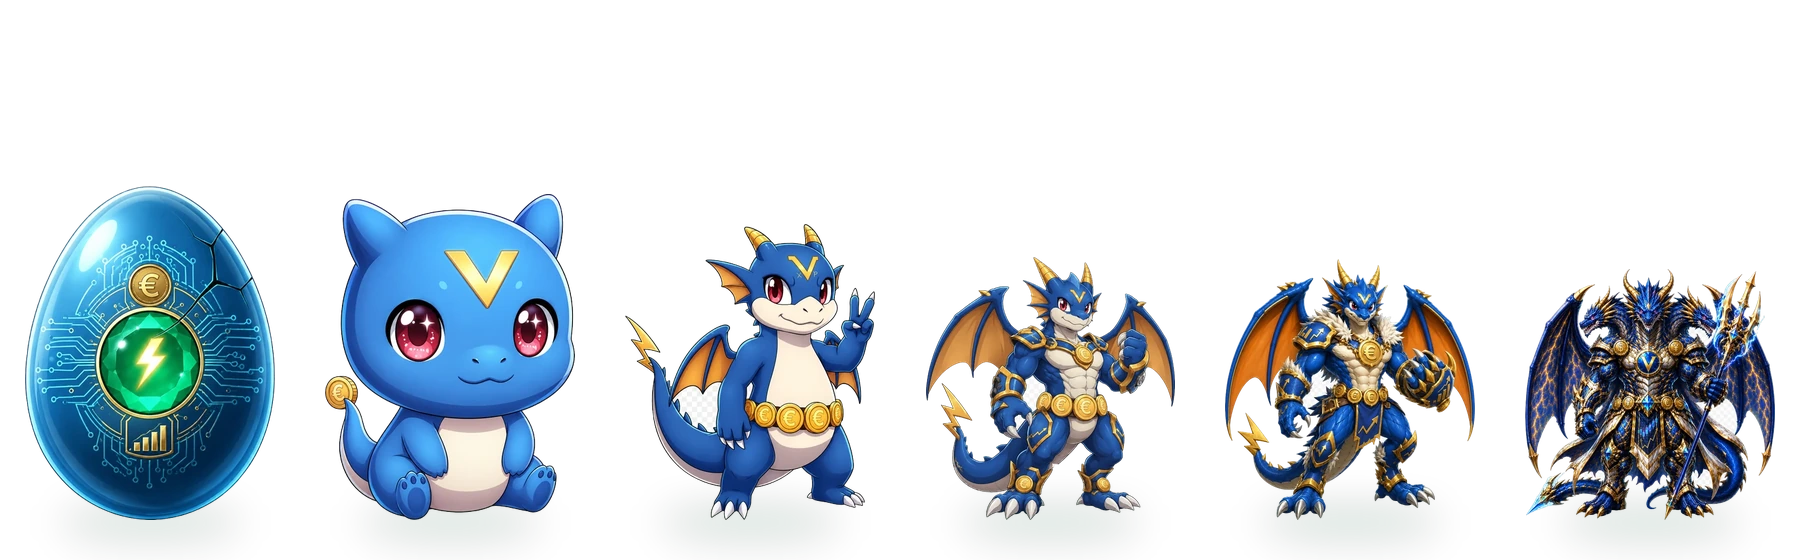
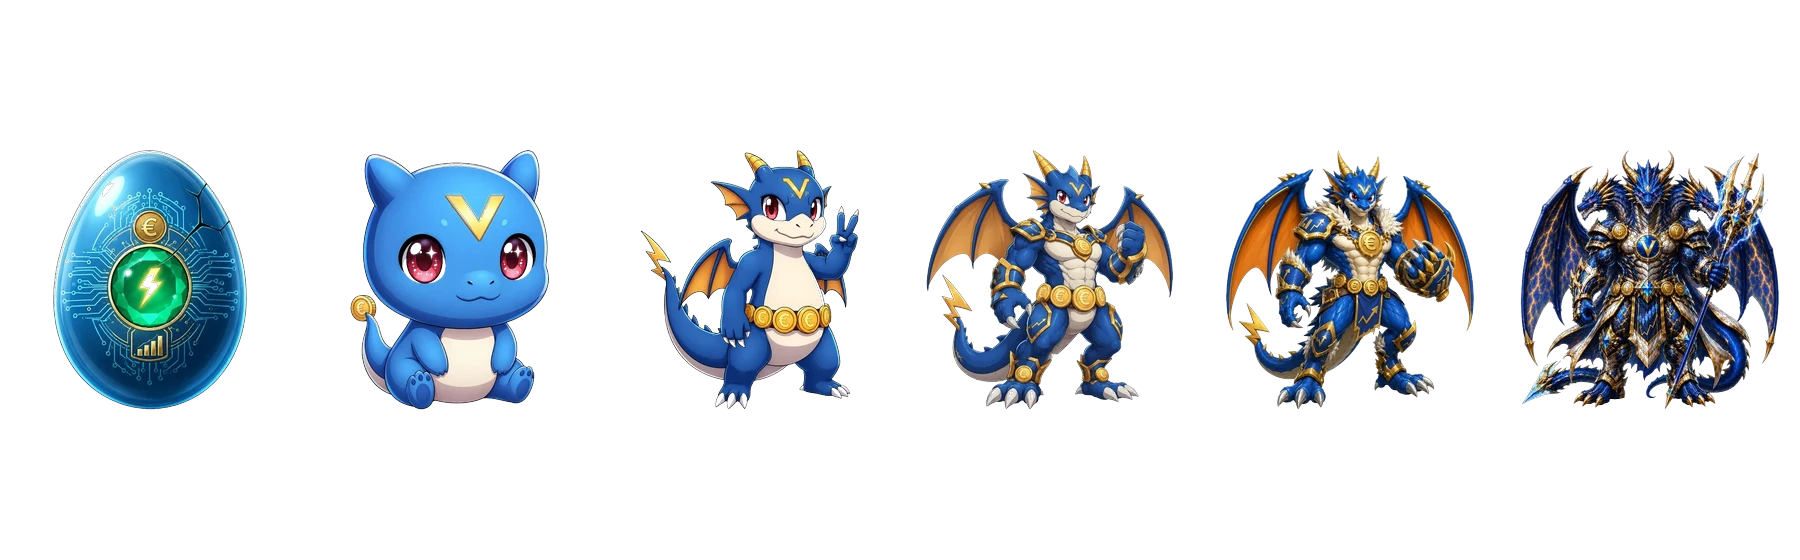
fix(brand): kill baked-checkerboard remnants on mascots (achromatic-key cut)
The source PNGs carry a baked fake-transparency checkerboard (flat RGB, no real
alpha), so prior birefnet cuts left white/grey checker stuck in concave pockets
where it is the same neutral as the cream belly. Colour / hole-fill /
connected-component all failed there (single component, belly-coloured).

Key insight: the checker is ACHROMATIC (R=G=B, two flat greys ~242/254) whereas
the mascots cream belly and Pennys white fur are WARM (R>B). Voltix now keys the
checker by achromatic + locally-periodic texture and removes it, including the
ENCLOSED pockets birefnet keeps, while the smooth warm belly is spared. Fixes
voltix-3 tail, voltix-4 arm/belly, voltix-6 wing/waist with no body damage.

Penny is white-on-white (the whole textured body reads as achromatic), so an
automatic pass nibbles fur tips. Kept the already-clean shipped Penny cuts and
surgically removed only penny-4 hip/ribbon checker pocket via a tight ROI.

Recomposed the (app-unused) evolution sheets from the clean individuals; bumped
MASCOT_ASSET_VER 5->6 and the showcase ?v= so browsers/CDN drop the stale art.

diff --git a/src/components/landing/LandingMascotShowcase.tsx b/src/components/landing/LandingMascotShowcase.tsx
@@ -53,7 +53,7 @@ function EvoRow({
             <div key={evo} className="text-center">
               <div className="relative w-full aspect-square bg-gradient-to-b from-white/5 to-transparent rounded-xl flex items-center justify-center border border-white/5 overflow-hidden mb-1.5">
                 <Image
-                  src={`/mascot/${gender}/${evo}.webp?v=5`}
+                  src={`/mascot/${gender}/${evo}.webp?v=6`}
                   alt={t('landing.mascot.evo_alt', { name, evo, label })}
                   width={96}
                   height={96}

diff --git a/src/components/voltix/MascotCreature.tsx b/src/components/voltix/MascotCreature.tsx
@@ -45,7 +45,7 @@ interface Props {
  *  `?v=` is a cache-buster — the mascot WebPs were re-cut (clean alpha, no
  *  white fringe) but keep the same filenames, so browsers/CDN would serve the
  *  stale cached version without it. Bump the number when the art changes. */
-const MASCOT_ASSET_VER = '5'
+const MASCOT_ASSET_VER = '6'
 function assetPath(gender: MascotGender, evo: number): string {
   return `/mascot/${gender}/${evo}.webp?v=${MASCOT_ASSET_VER}`
 }
